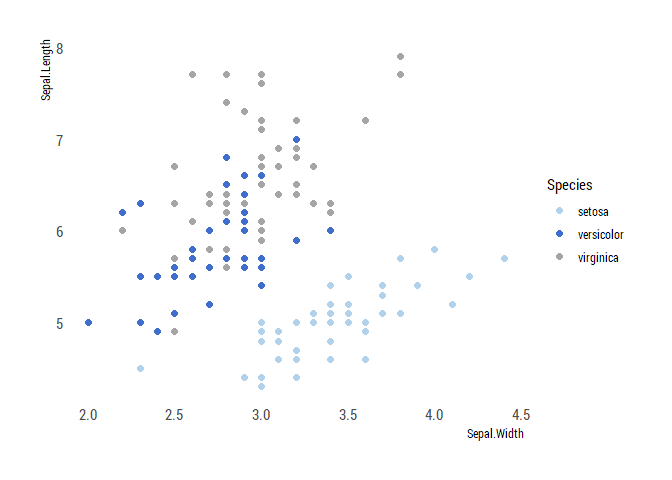
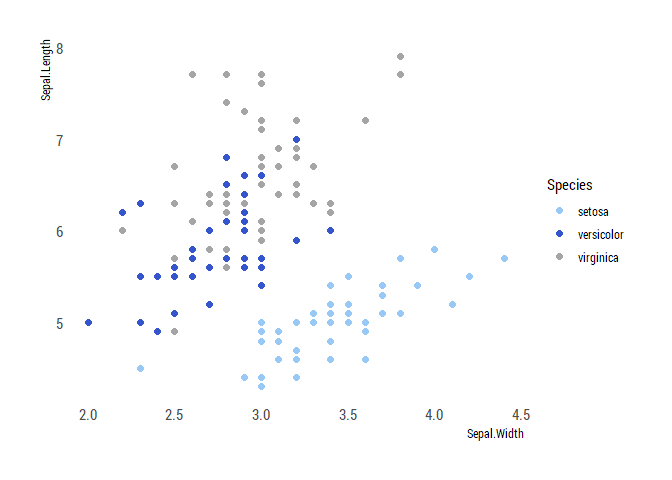
Updated colour scheme

diff --git a/Readme.md b/Readme.md
@@ -1,13 +1,13 @@
 Readme
 ================
 Maris Vainre
-08/06/2020
+27/03/2021
 
 # About PraxisColour
 
-This is a R package to employ the unofficial [Praxis Centre for Policy
-Studies](http://www.praxis.ee/en/) colour palette. The package was
-created based on [Alex Quent’s
+This is a R package to employ the now almost-official [Praxis Centre for
+Policy Studies](http://www.praxis.ee/en/) colour palette. The package
+was created based on [Alex Quent’s
 MRColour](https://github.com/JAQuent/MRColour) and [Drsimonj’s blog
 post](https://drsimonj.svbtle.com/creating-corporate-colour-palettes-for-ggplot2).
 
@@ -22,38 +22,44 @@ library(tidyverse)
 praxis_pal("main")(3)
 ```
 
-    ## [1] "#B2D2EC" "#3F6ECD" "#F14D4D"
+    ## [1] "#98C9F6" "#3455CC" "#F14D4D"
 
 ``` r
 praxis_pal("main")(10)
 ```
 
-    ##  [1] "#B2D2EC" "#98BBE5" "#7EA5DE" "#658FD7" "#4B79D0" "#526ABE" "#7A63A2"
-    ##  [8] "#A15B85" "#C95469" "#F14D4D"
+    ##  [1] "#98C9F6" "#81AFEC" "#6B95E3" "#557BDA" "#3F61D0" "#4954BD" "#7252A1"
+    ##  [8] "#9C5085" "#C64E69" "#F14D4D"
 
 ``` r
 praxis_pal("binary")(2)
 ```
 
-    ## [1] "#3F6ECD" "#A5A5A5"
+    ## [1] "#3455CC" "#A5A5A5"
+
+``` r
+praxis_pal("blackgold")(2)
+```
+
+    ## [1] "#262626" "#C8A366"
 
 ``` r
 praxis_pal("cool")(3)
 ```
 
-    ## [1] "#B2D2EC" "#3F6ECD" "#A5A5A5"
+    ## [1] "#98C9F6" "#3455CC" "#A5A5A5"
 
 ``` r
 praxis_pal("monochrome")(3)
 ```
 
-    ## [1] "#000000" "#525252" "#A5A5A5"
+    ## [1] "#262626" "#656565" "#A5A5A5"
 
 ``` r
 praxis_pal("full")(7)
 ```
 
-    ## [1] "#B2D2EC" "#527ED2" "#B55877" "#782626" "#363636" "#AAA49A" "#C8A366"
+    ## [1] "#98C9F6" "#3455CC" "#F14D4D" "#FFCE19" "#262626" "#A5A5A5" "#C8A366"
 
 ## Ggplot examples
 
@@ -101,6 +107,18 @@ ggplot(iris.sub, aes(Sepal.Width, Sepal.Length, color = Species)) +
 ![](Readme_files/figure-gfm/dotsMono-1.png)<!-- -->
 
 ``` r
+iris.sub <- iris %>%
+  filter(Species != "versicolor")
+
+ggplot(iris.sub, aes(Sepal.Width, Sepal.Length, color = Species)) +
+  geom_point(size = 2) +
+  scale_color_praxis(palette = "blackgold")  +
+    theme_ipsum_rc(grid=FALSE)
+```
+
+![](Readme_files/figure-gfm/dotsBG-1.png)<!-- -->
+
+``` r
 ggplot(iris, aes(Sepal.Width, Sepal.Length, color = Species)) +
   geom_point(size = 2) +
   scale_color_praxis(palette = "cool")  +
@@ -108,6 +126,15 @@ ggplot(iris, aes(Sepal.Width, Sepal.Length, color = Species)) +
 ```
 
 ![](Readme_files/figure-gfm/dots2-1.png)<!-- -->
+
+``` r
+ggplot(mpg, aes(displ, hwy, color = class)) +
+  geom_point(size = 2) +
+  scale_color_praxis(palette = "full")  +
+    theme_ipsum_rc(grid=FALSE)
+```
+
+![](Readme_files/figure-gfm/dotsall-1.png)<!-- -->
 
 ``` r
 ggplot(mpg, aes(manufacturer, fill = manufacturer)) +
